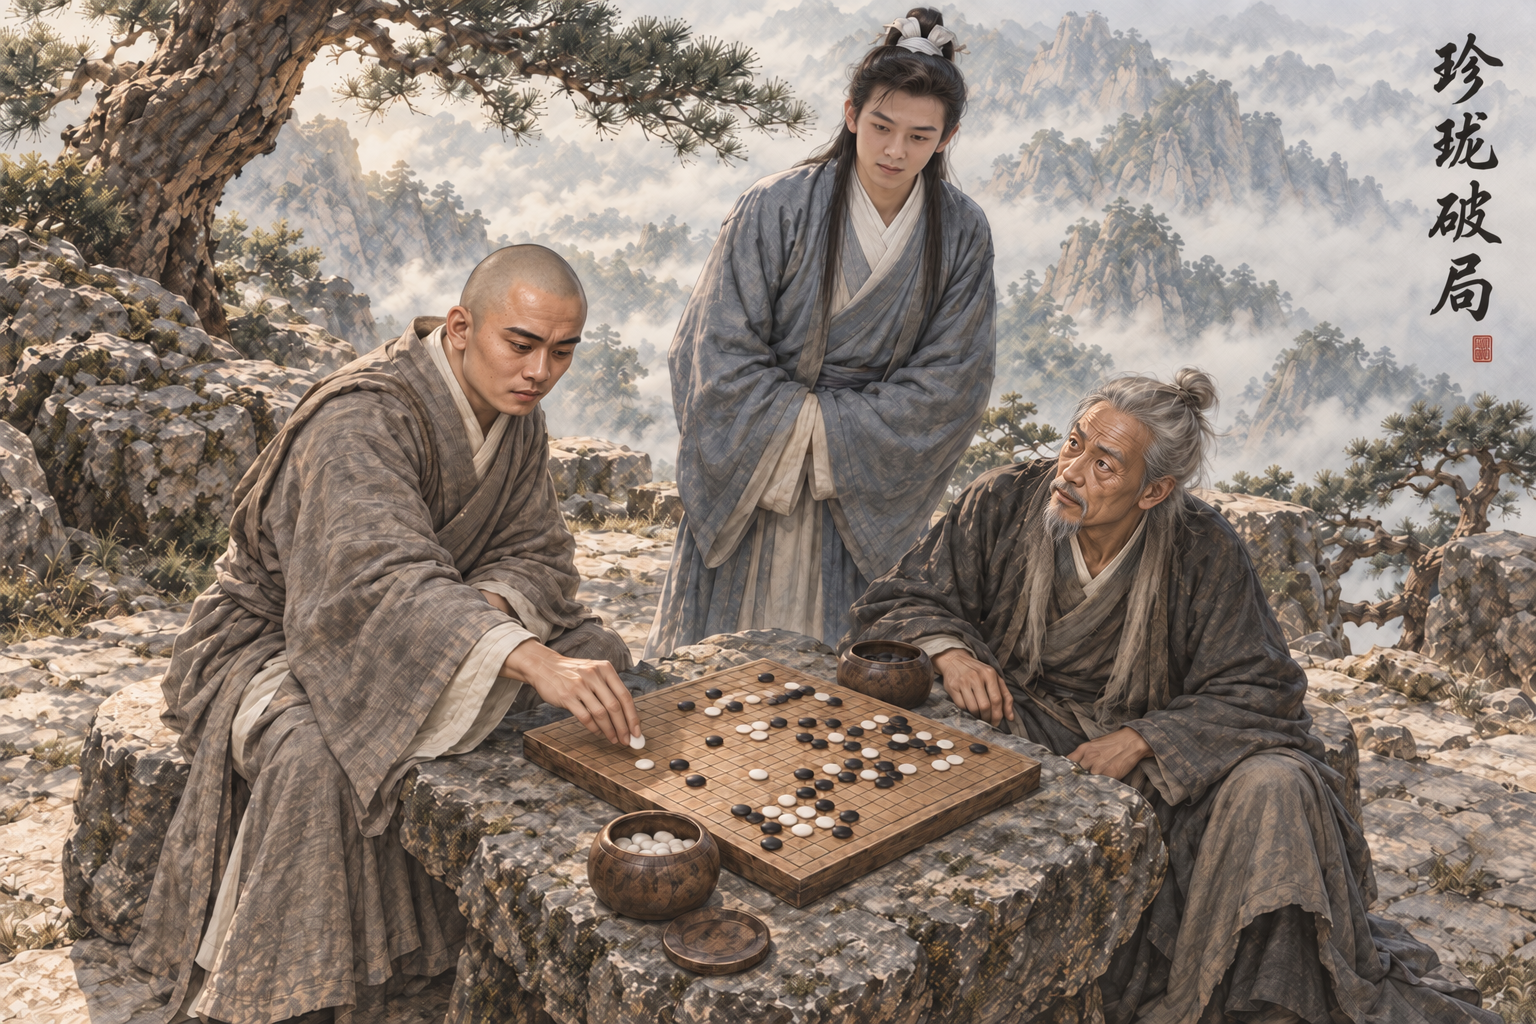
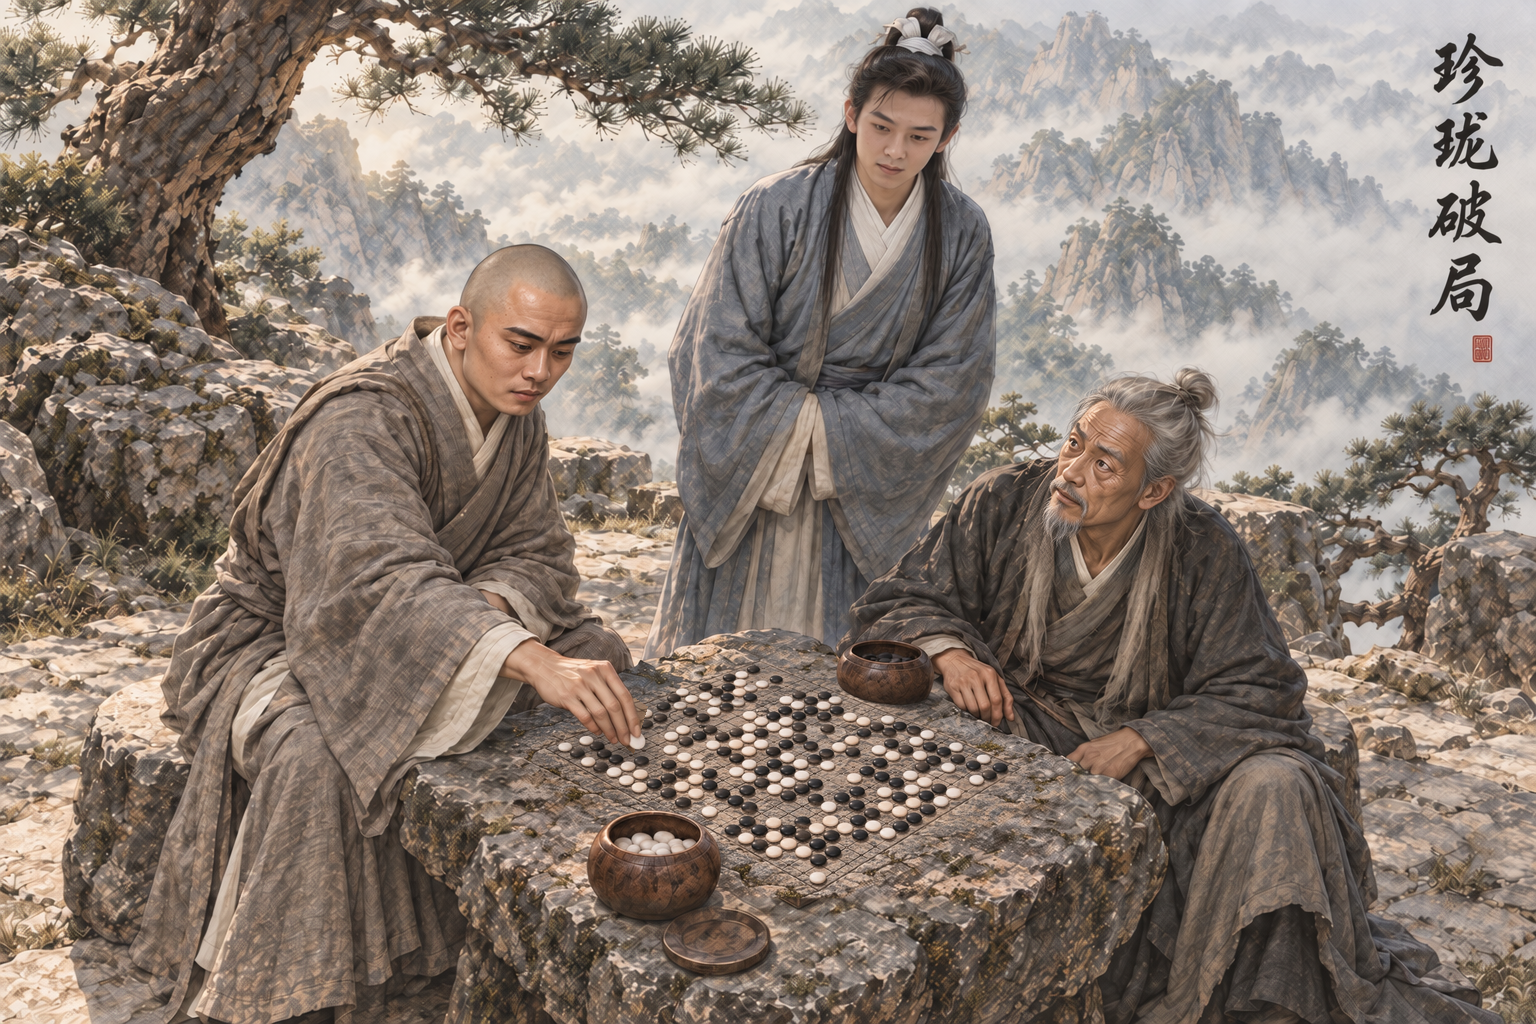
assets: AR-82 原著核对返修 珍珑插图去木板改直接青石刻盘密集残局
原著摘句已同步提示词；已打开验图；蒙版外0像素变化。

Executed-By: Codex gpt-6.1-sol（AR-82）

Changed region(s): [[0.3125, 0.625, 0.6875, 0.875]]

diff --git a/assets/default/prompts/scenes/ch01-tianlong/cg_ch01_zhenlong_break.md b/assets/default/prompts/scenes/ch01-tianlong/cg_ch01_zhenlong_break.md
@@ -65,3 +65,7 @@ composite_job: cg_ch01_zhenlong_break.resume3
 排除项：不要文字、题字、字幕、水印、签名、Logo、边框或分镜格；不要未指定的多余人物（明确要求的远景群像除外）；不要幼态、儿童体态、性化处理、裸露或恋物特写；不要血腥特写、断肢、尸体堆叠或伤口细节；不要真人、演员、影视剧照复刻；不要多余肢体、手指错误、脸部融合、身份串脸、时代错装、现代物件、动漫风、摄影棚感、3D 塑料感。
 ```
 
+## 原著依据
+
+- 《天龙八部》第三十一回 输赢成败 又争由人算：“棋盘雕在一块大青石上”；“双方各已下了百余子”；https://www.xuges.com/wuxia/jinyong/tlbb/236.htm
+- AR-82 返修约束（本节优先于历史提示词）：只把大青石上独立木棋板移除，十九路棋盘直接刻在同一块大青石表面。双方各百余子（共两百余子）的错综密集黑白残局，不能只放几十子。三个人、原手指与白子、碗、石头周边、背景和题字朱印完全不动。
